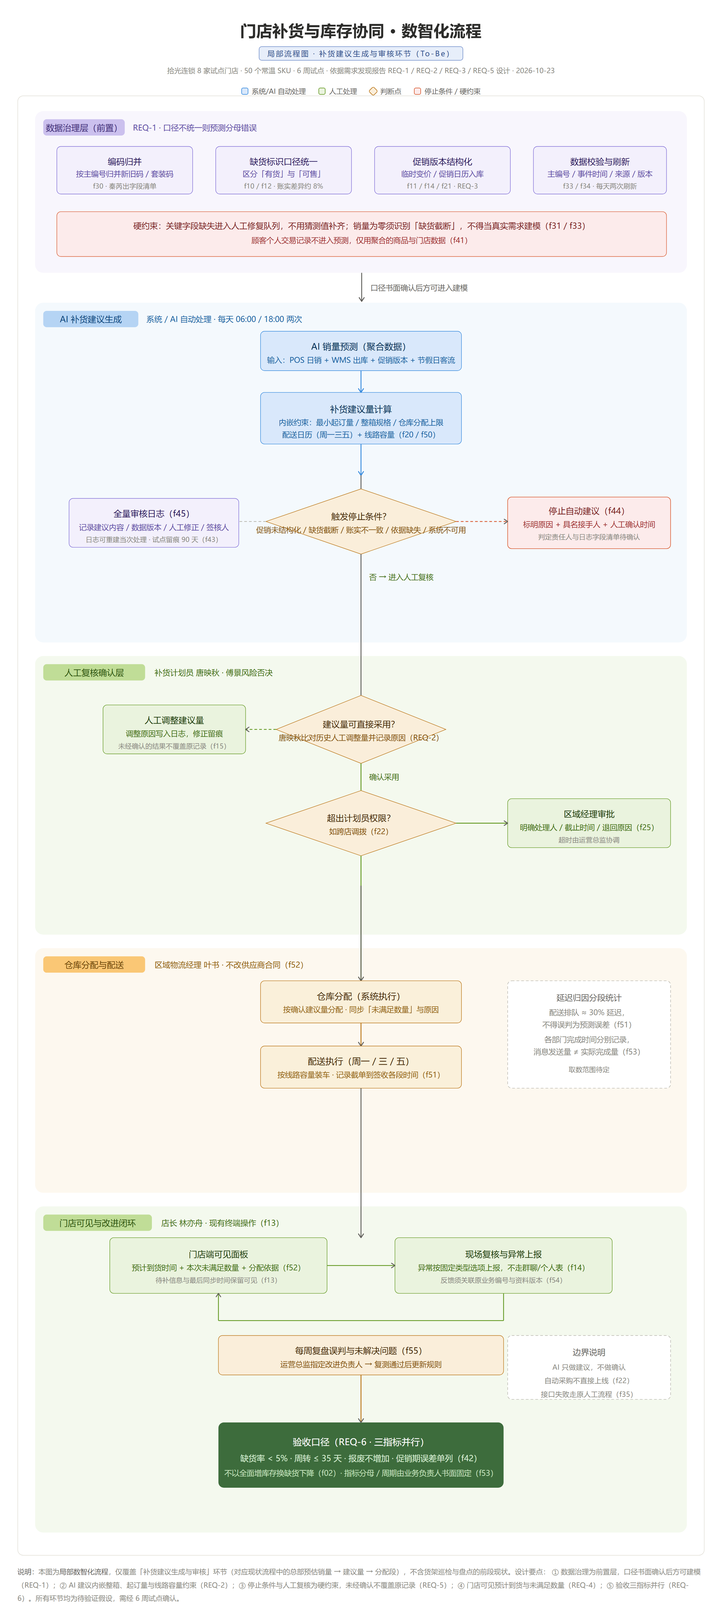
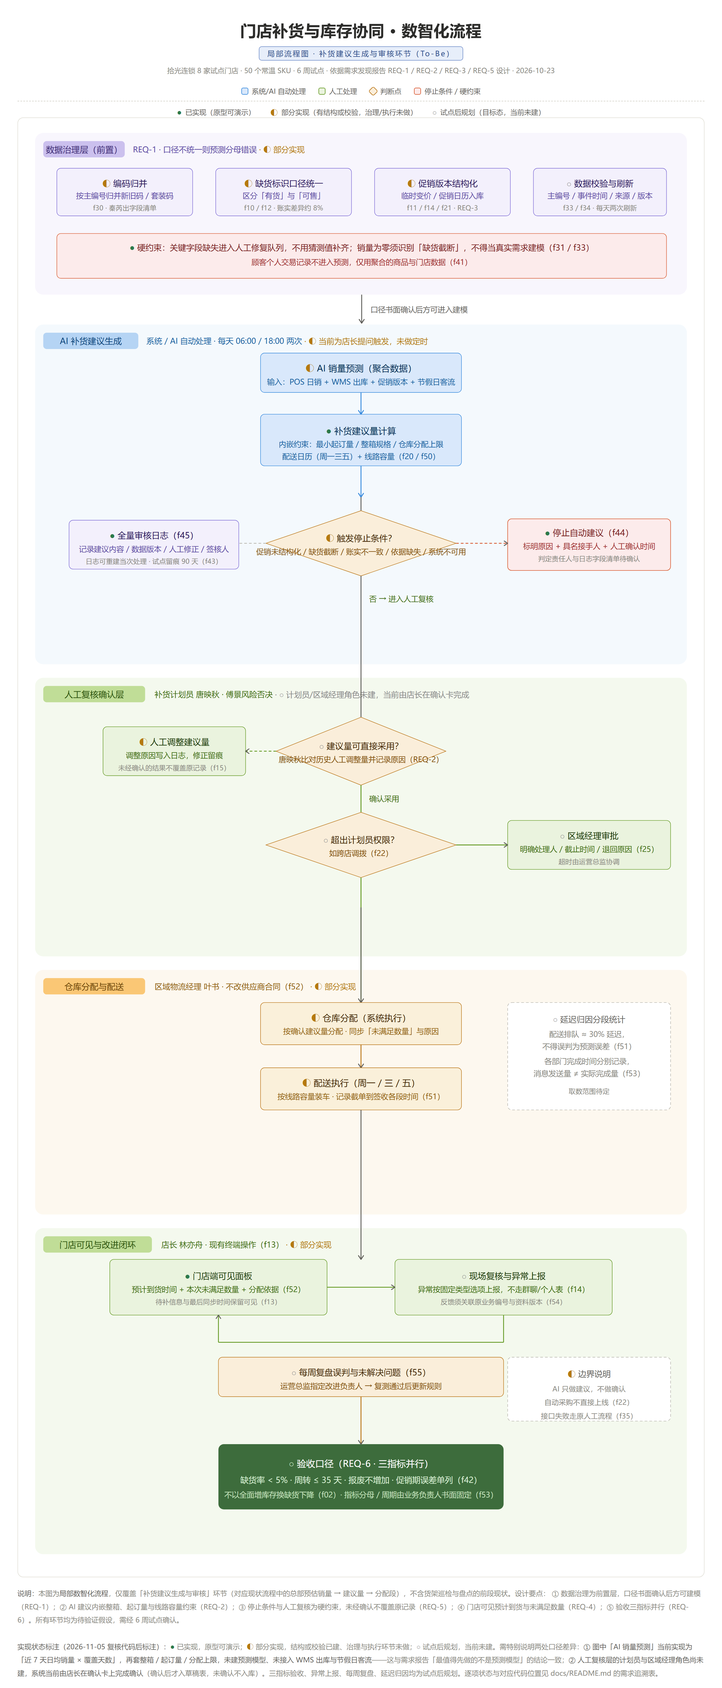
数智化流程图增加实现状态标注：设计图与系统口径对齐
- 对照代码逐项核对图中 17 类要素，为 22 个节点与 5 个分层加状态标注：
  ● 已实现（原型可演示）/ ◐ 部分实现 / ○ 试点后规划
- 两处口径差异在底部说明中写明：
  1) 「AI 销量预测」当前实现为近 7 天日均销量推算（无模型、无 WMS/节假日因子），
     与需求报告「最值得先做的不是预测模型」结论一致
  2) 计划员/区域经理角色未建，确认由店长在确认卡完成
- 顶部图例增加状态行；docs/README.md 索引同步
- PNG 已用 scripts/export_png.py --raw 重新导出，图文一致
- 替换脚本采用内存校验后原子写入，任一替换未命中则整篇不落盘

diff --git a/docs/design/门店补货与库存协同-数智化流程图-局部.html b/docs/design/门店补货与库存协同-数智化流程图-局部.html
@@ -46,6 +46,12 @@
   <span><i class="dot" style="background:#FCEBEB;border-color:#D85A30"></i>停止条件 / 硬约束</span>
 </div>
 
+<div class="legend" style="margin-top:9px;gap:26px;border-top:1px dashed #D3D1C7;padding-top:9px;">
+  <span><b style="color:#2C7A4B;font-size:13px;">●</b> 已实现（原型可演示）</span>
+  <span><b style="color:#B5790F;font-size:13px;">◐</b> 部分实现（有结构或校验，治理/执行未做）</span>
+  <span><b style="color:#8A8A8A;font-size:13px;">○</b> 试点后规划（目标态，当前未建）</span>
+</div>
+
 <div class="canvas">
 <svg viewBox="0 0 1000 2130" role="img" xmlns="http://www.w3.org/2000/svg">
 <title>门店补货与库存协同数智化流程图（局部）</title>
@@ -65,30 +71,30 @@
 <rect x="20" y="10" width="960" height="238" rx="12" fill="#EFEBFA" opacity="0.45"/>
 <rect x="32" y="22" width="120" height="24" rx="5" fill="#CBC0EE"/>
 <text x="92" y="34" font-size="12.5" font-weight="500" fill="#3A2875" text-anchor="middle" dominant-baseline="central">数据治理层（前置）</text>
-<text x="164" y="34" font-size="11.5" fill="#5A48A6" dominant-baseline="central"> REQ-1 · 口径不统一则预测分母错误</text>
+<text x="164" y="34" font-size="11.5" fill="#5A48A6" dominant-baseline="central"> REQ-1 · 口径不统一则预测分母错误<tspan fill="#B5790F"> · ◐ 部分实现</tspan></text>
 
 <rect x="52" y="62" width="200" height="70" rx="6" fill="#F3F0FC" stroke="#7F6DD6" stroke-width="0.7"/>
-<text x="152" y="84" font-size="12.5" fill="#241457" text-anchor="middle" dominant-baseline="central">编码归并</text>
+<text x="152" y="84" font-size="12.5" fill="#241457" text-anchor="middle" dominant-baseline="central"><tspan fill="#B5790F">◐ </tspan>编码归并</text>
 <text x="152" y="102" font-size="11" fill="#5A48A6" text-anchor="middle" dominant-baseline="central">按主编号归并新旧码 / 套装码</text>
 <text x="152" y="120" font-size="10" fill="#888780" text-anchor="middle" dominant-baseline="central">f30 · 秦芮出字段清单</text>
 
 <rect x="286" y="62" width="200" height="70" rx="6" fill="#F3F0FC" stroke="#7F6DD6" stroke-width="0.7"/>
-<text x="386" y="84" font-size="12.5" fill="#241457" text-anchor="middle" dominant-baseline="central">缺货标识口径统一</text>
+<text x="386" y="84" font-size="12.5" fill="#241457" text-anchor="middle" dominant-baseline="central"><tspan fill="#B5790F">◐ </tspan>缺货标识口径统一</text>
 <text x="386" y="102" font-size="11" fill="#5A48A6" text-anchor="middle" dominant-baseline="central">区分「有货」与「可售」</text>
 <text x="386" y="120" font-size="10" fill="#888780" text-anchor="middle" dominant-baseline="central">f10 / f12 · 账实差异约 8%</text>
 
 <rect x="520" y="62" width="200" height="70" rx="6" fill="#F3F0FC" stroke="#7F6DD6" stroke-width="0.7"/>
-<text x="620" y="84" font-size="12.5" fill="#241457" text-anchor="middle" dominant-baseline="central">促销版本结构化</text>
+<text x="620" y="84" font-size="12.5" fill="#241457" text-anchor="middle" dominant-baseline="central"><tspan fill="#B5790F">◐ </tspan>促销版本结构化</text>
 <text x="620" y="102" font-size="11" fill="#5A48A6" text-anchor="middle" dominant-baseline="central">临时变价 / 促销日历入库</text>
 <text x="620" y="120" font-size="10" fill="#888780" text-anchor="middle" dominant-baseline="central">f11 / f14 / f21 · REQ-3</text>
 
 <rect x="754" y="62" width="196" height="70" rx="6" fill="#F3F0FC" stroke="#7F6DD6" stroke-width="0.7"/>
-<text x="852" y="84" font-size="12.5" fill="#241457" text-anchor="middle" dominant-baseline="central">数据校验与刷新</text>
+<text x="852" y="84" font-size="12.5" fill="#241457" text-anchor="middle" dominant-baseline="central"><tspan fill="#8A8A8A">○ </tspan>数据校验与刷新</text>
 <text x="852" y="102" font-size="11" fill="#5A48A6" text-anchor="middle" dominant-baseline="central">主编号 / 事件时间 / 来源 / 版本</text>
 <text x="852" y="120" font-size="10" fill="#888780" text-anchor="middle" dominant-baseline="central">f33 / f34 · 每天两次刷新</text>
 
 <rect x="52" y="158" width="898" height="66" rx="6" fill="#FCEBEB" stroke="#D85A30" stroke-width="0.7"/>
-<text x="501" y="178" font-size="12" font-weight="500" fill="#791F1F" text-anchor="middle" dominant-baseline="central">硬约束：关键字段缺失进入人工修复队列，不用猜测值补齐；销量为零须识别「缺货截断」，不得当真实需求建模（f31 / f33）</text>
+<text x="501" y="178" font-size="12" font-weight="500" fill="#791F1F" text-anchor="middle" dominant-baseline="central"><tspan fill="#2C7A4B">● </tspan>硬约束：关键字段缺失进入人工修复队列，不用猜测值补齐；销量为零须识别「缺货截断」，不得当真实需求建模（f31 / f33）</text>
 <text x="501" y="200" font-size="11" fill="#A32D2D" text-anchor="middle" dominant-baseline="central">顾客个人交易记录不进入预测，仅用聚合的商品与门店数据（f41）</text>
 
 <path d="M501 248 L501 290" stroke="#5F5E5A" stroke-width="1.3" marker-end="url(#a)"/>
@@ -98,14 +104,14 @@
 <rect x="20" y="292" width="960" height="500" rx="12" fill="#E6F1FB" opacity="0.45"/>
 <rect x="32" y="304" width="140" height="24" rx="5" fill="#B5D4F4"/>
 <text x="102" y="316" font-size="12.5" font-weight="500" fill="#0C447C" text-anchor="middle" dominant-baseline="central">AI 补货建议生成</text>
-<text x="184" y="316" font-size="11.5" fill="#185FA5" dominant-baseline="central"> 系统 / AI 自动处理 · 每天 06:00 / 18:00 两次</text>
+<text x="184" y="316" font-size="11.5" fill="#185FA5" dominant-baseline="central"> 系统 / AI 自动处理 · 每天 06:00 / 18:00 两次<tspan fill="#B5790F"> · ◐ 当前为店长提问触发，未做定时</tspan></text>
 
 <rect x="352" y="334" width="296" height="58" rx="6" fill="#D9E8FB" stroke="#378ADD" stroke-width="0.7"/>
-<text x="500" y="356" font-size="13" fill="#042C53" text-anchor="middle" dominant-baseline="central">AI 销量预测（聚合数据）</text>
+<text x="500" y="356" font-size="13" fill="#042C53" text-anchor="middle" dominant-baseline="central"><tspan fill="#B5790F">◐ </tspan>AI 销量预测（聚合数据）</text>
 <text x="500" y="376" font-size="11" fill="#185FA5" text-anchor="middle" dominant-baseline="central">输入：POS 日销 + WMS 出库 + 促销版本 + 节假日客流</text>
 
 <rect x="352" y="424" width="296" height="76" rx="6" fill="#D9E8FB" stroke="#378ADD" stroke-width="0.7"/>
-<text x="500" y="448" font-size="13" fill="#042C53" text-anchor="middle" dominant-baseline="central">补货建议量计算</text>
+<text x="500" y="448" font-size="13" fill="#042C53" text-anchor="middle" dominant-baseline="central"><tspan fill="#2C7A4B">● </tspan>补货建议量计算</text>
 <text x="500" y="468" font-size="11" fill="#185FA5" text-anchor="middle" dominant-baseline="central">内嵌约束：最小起订量 / 整箱规格 / 仓库分配上限</text>
 <text x="500" y="486" font-size="11" fill="#185FA5" text-anchor="middle" dominant-baseline="central">配送日历（周一三五）+ 线路容量（f20 / f50）</text>
 
@@ -115,18 +121,18 @@
 <path d="M500 546 L500 566" stroke="#5F5E5A" stroke-width="1.3"/>
 
 <path d="M500 566 L640 614 L500 662 L360 614 Z" fill="#FAEEDA" stroke="#BA7517" stroke-width="0.7"/>
-<text x="500" y="606" font-size="12.5" font-weight="500" fill="#412402" text-anchor="middle" dominant-baseline="central">触发停止条件？</text>
+<text x="500" y="606" font-size="12.5" font-weight="500" fill="#412402" text-anchor="middle" dominant-baseline="central"><tspan fill="#B5790F">◐ </tspan>触发停止条件？</text>
 <text x="500" y="626" font-size="11" fill="#854F0B" text-anchor="middle" dominant-baseline="central">促销未结构化 / 缺货截断 / 账实不一致 / 依据缺失 / 系统不可用</text>
 
 <rect x="716" y="578" width="240" height="76" rx="6" fill="#FCEBEB" stroke="#D85A30" stroke-width="0.8"/>
-<text x="836" y="598" font-size="12.5" font-weight="500" fill="#791F1F" text-anchor="middle" dominant-baseline="central">停止自动建议（f44）</text>
+<text x="836" y="598" font-size="12.5" font-weight="500" fill="#791F1F" text-anchor="middle" dominant-baseline="central"><tspan fill="#2C7A4B">● </tspan>停止自动建议（f44）</text>
 <text x="836" y="618" font-size="11" fill="#A32D2D" text-anchor="middle" dominant-baseline="central">标明原因 + 具名接手人 + 人工确认时间</text>
 <text x="836" y="636" font-size="10" fill="#888780" text-anchor="middle" dominant-baseline="central">判定责任人与日志字段清单待确认</text>
 
 <path d="M640 614 L716 614" stroke="#D85A30" stroke-width="1.2" stroke-dasharray="4 3" marker-end="url(#a)"/>
 
 <rect x="70" y="580" width="250" height="72" rx="6" fill="#F3F0FC" stroke="#7F6DD6" stroke-width="0.7"/>
-<text x="195" y="602" font-size="12.5" fill="#241457" text-anchor="middle" dominant-baseline="central">全量审核日志（f45）</text>
+<text x="195" y="602" font-size="12.5" fill="#241457" text-anchor="middle" dominant-baseline="central"><tspan fill="#2C7A4B">● </tspan>全量审核日志（f45）</text>
 <text x="195" y="622" font-size="11" fill="#5A48A6" text-anchor="middle" dominant-baseline="central">记录建议内容 / 数据版本 / 人工修正 / 签核人</text>
 <text x="195" y="640" font-size="10" fill="#888780" text-anchor="middle" dominant-baseline="central">日志可重建当次处理 · 试点留痕 90 天（f43）</text>
 
@@ -136,17 +142,17 @@
 <rect x="20" y="812" width="960" height="410" rx="12" fill="#EAF3DE" opacity="0.5"/>
 <rect x="32" y="824" width="150" height="24" rx="5" fill="#C0DD97"/>
 <text x="107" y="836" font-size="12.5" font-weight="500" fill="#27500A" text-anchor="middle" dominant-baseline="central">人工复核确认层</text>
-<text x="196" y="836" font-size="11.5" fill="#3B6D11" dominant-baseline="central"> 补货计划员 唐映秋 · 傅景风险否决</text>
+<text x="196" y="836" font-size="11.5" fill="#3B6D11" dominant-baseline="central"> 补货计划员 唐映秋 · 傅景风险否决<tspan fill="#8A8A8A"> · ○ 计划员/区域经理角色未建，当前由店长在确认卡完成</tspan></text>
 
 <path d="M500 662 L500 870" stroke="#5F5E5A" stroke-width="1.3"/>
 <text x="512" y="700" font-size="11" fill="#3B6D11">否 → 进入人工复核</text>
 
 <path d="M500 870 L625 920 L500 970 L375 920 Z" fill="#FAEEDA" stroke="#BA7517" stroke-width="0.7"/>
-<text x="500" y="912" font-size="12.5" font-weight="500" fill="#412402" text-anchor="middle" dominant-baseline="central">建议量可直接采用？</text>
+<text x="500" y="912" font-size="12.5" font-weight="500" fill="#412402" text-anchor="middle" dominant-baseline="central"><tspan fill="#8A8A8A">○ </tspan>建议量可直接采用？</text>
 <text x="500" y="932" font-size="11" fill="#854F0B" text-anchor="middle" dominant-baseline="central">唐映秋比对历史人工调整量并记录原因（REQ-2）</text>
 
 <rect x="120" y="884" width="210" height="72" rx="6" fill="#EAF3DE" stroke="#639922" stroke-width="0.7"/>
-<text x="225" y="906" font-size="12.5" fill="#173404" text-anchor="middle" dominant-baseline="central">人工调整建议量</text>
+<text x="225" y="906" font-size="12.5" fill="#173404" text-anchor="middle" dominant-baseline="central"><tspan fill="#B5790F">◐ </tspan>人工调整建议量</text>
 <text x="225" y="926" font-size="11" fill="#3B6D11" text-anchor="middle" dominant-baseline="central">调整原因写入日志，修正留痕</text>
 <text x="225" y="944" font-size="10" fill="#888780" text-anchor="middle" dominant-baseline="central">未经确认的结果不覆盖原记录（f15）</text>
 
@@ -155,11 +161,11 @@
 <text x="512" y="994" font-size="11" fill="#3B6D11">确认采用</text>
 
 <path d="M500 1010 L640 1058 L500 1106 L360 1058 Z" fill="#FAEEDA" stroke="#BA7517" stroke-width="0.7"/>
-<text x="500" y="1050" font-size="12.5" font-weight="500" fill="#412402" text-anchor="middle" dominant-baseline="central">超出计划员权限？</text>
+<text x="500" y="1050" font-size="12.5" font-weight="500" fill="#412402" text-anchor="middle" dominant-baseline="central"><tspan fill="#8A8A8A">○ </tspan>超出计划员权限？</text>
 <text x="500" y="1070" font-size="11" fill="#854F0B" text-anchor="middle" dominant-baseline="central">如跨店调拨（f22）</text>
 
 <rect x="716" y="1022" width="240" height="72" rx="6" fill="#EAF3DE" stroke="#639922" stroke-width="0.7"/>
-<text x="836" y="1044" font-size="12.5" fill="#173404" text-anchor="middle" dominant-baseline="central">区域经理审批</text>
+<text x="836" y="1044" font-size="12.5" fill="#173404" text-anchor="middle" dominant-baseline="central"><tspan fill="#8A8A8A">○ </tspan>区域经理审批</text>
 <text x="836" y="1064" font-size="11" fill="#3B6D11" text-anchor="middle" dominant-baseline="central">明确处理人 / 截止时间 / 退回原因（f25）</text>
 <text x="836" y="1082" font-size="10" fill="#888780" text-anchor="middle" dominant-baseline="central">超时由运营总监协调</text>
 
@@ -169,23 +175,23 @@
 <rect x="20" y="1242" width="960" height="360" rx="12" fill="#FAEEDA" opacity="0.42"/>
 <rect x="32" y="1254" width="150" height="24" rx="5" fill="#FAC775"/>
 <text x="107" y="1266" font-size="12.5" font-weight="500" fill="#6B4205" text-anchor="middle" dominant-baseline="central">仓库分配与配送</text>
-<text x="196" y="1266" font-size="11.5" fill="#93610E" dominant-baseline="central"> 区域物流经理 叶书 · 不改供应商合同（f52）</text>
+<text x="196" y="1266" font-size="11.5" fill="#93610E" dominant-baseline="central"> 区域物流经理 叶书 · 不改供应商合同（f52）<tspan fill="#B5790F"> · ◐ 部分实现</tspan></text>
 
 <path d="M500 1106 L500 1150 M500 1150 L500 1290" stroke="#639922" stroke-width="1.3"/>
 <path d="M500 1150 L500 1290" stroke="#5F5E5A" stroke-width="1.3" marker-end="url(#a)"/>
 
 <rect x="352" y="1290" width="296" height="62" rx="6" fill="#FAF0DA" stroke="#BA7517" stroke-width="0.7"/>
-<text x="500" y="1312" font-size="13" fill="#412402" text-anchor="middle" dominant-baseline="central">仓库分配（系统执行）</text>
+<text x="500" y="1312" font-size="13" fill="#412402" text-anchor="middle" dominant-baseline="central"><tspan fill="#B5790F">◐ </tspan>仓库分配（系统执行）</text>
 <text x="500" y="1332" font-size="11" fill="#93610E" text-anchor="middle" dominant-baseline="central">按确认建议量分配 · 同步「未满足数量」与原因</text>
 
 <path d="M500 1352 L500 1386" stroke="#BA7517" stroke-width="1.3" marker-end="url(#a)"/>
 
 <rect x="352" y="1386" width="296" height="62" rx="6" fill="#FAF0DA" stroke="#BA7517" stroke-width="0.7"/>
-<text x="500" y="1408" font-size="13" fill="#412402" text-anchor="middle" dominant-baseline="central">配送执行（周一 / 三 / 五）</text>
+<text x="500" y="1408" font-size="13" fill="#412402" text-anchor="middle" dominant-baseline="central"><tspan fill="#B5790F">◐ </tspan>配送执行（周一 / 三 / 五）</text>
 <text x="500" y="1428" font-size="11" fill="#93610E" text-anchor="middle" dominant-baseline="central">按线路容量装车 · 记录截单到签收各段时间（f51）</text>
 
 <rect x="716" y="1290" width="240" height="158" rx="6" fill="#fff" stroke="#B4B2A9" stroke-width="0.7" stroke-dasharray="4 3"/>
-<text x="836" y="1314" font-size="12" font-weight="500" fill="#5F5E5A" text-anchor="middle" dominant-baseline="central">延迟归因分段统计</text>
+<text x="836" y="1314" font-size="12" font-weight="500" fill="#5F5E5A" text-anchor="middle" dominant-baseline="central"><tspan fill="#8A8A8A">○ </tspan>延迟归因分段统计</text>
 <text x="836" y="1336" font-size="11" fill="#888780" text-anchor="middle" dominant-baseline="central">配送排队 ≈ 30% 延迟，</text>
 <text x="836" y="1354" font-size="11" fill="#888780" text-anchor="middle" dominant-baseline="central">不得误判为预测误差（f51）</text>
 <text x="836" y="1376" font-size="11" fill="#888780" text-anchor="middle" dominant-baseline="central">各部门完成时间分别记录，</text>
@@ -196,17 +202,17 @@
 <rect x="20" y="1622" width="960" height="480" rx="12" fill="#EAF3DE" opacity="0.5"/>
 <rect x="32" y="1634" width="160" height="24" rx="5" fill="#C0DD97"/>
 <text x="112" y="1646" font-size="12.5" font-weight="500" fill="#27500A" text-anchor="middle" dominant-baseline="central">门店可见与改进闭环</text>
-<text x="206" y="1646" font-size="11.5" fill="#3B6D11" dominant-baseline="central"> 店长 林亦舟 · 现有终端操作（f13）</text>
+<text x="206" y="1646" font-size="11.5" fill="#3B6D11" dominant-baseline="central"> 店长 林亦舟 · 现有终端操作（f13）<tspan fill="#B5790F"> · ◐ 部分实现</tspan></text>
 
 <path d="M500 1448 L500 1490 M500 1490 L500 1668" stroke="#5F5E5A" stroke-width="1.3" marker-end="url(#a)"/>
 
 <rect x="130" y="1668" width="320" height="82" rx="6" fill="#EAF3DE" stroke="#639922" stroke-width="0.7"/>
-<text x="290" y="1692" font-size="12.5" fill="#173404" text-anchor="middle" dominant-baseline="central">门店端可见面板</text>
+<text x="290" y="1692" font-size="12.5" fill="#173404" text-anchor="middle" dominant-baseline="central"><tspan fill="#2C7A4B">● </tspan>门店端可见面板</text>
 <text x="290" y="1712" font-size="11" fill="#3B6D11" text-anchor="middle" dominant-baseline="central">预计到货时间 + 本次未满足数量 + 分配依据（f52）</text>
 <text x="290" y="1730" font-size="10" fill="#888780" text-anchor="middle" dominant-baseline="central">待补信息与最后同步时间保留可见（f13）</text>
 
 <rect x="550" y="1668" width="320" height="82" rx="6" fill="#EAF3DE" stroke="#639922" stroke-width="0.7"/>
-<text x="710" y="1692" font-size="12.5" fill="#173404" text-anchor="middle" dominant-baseline="central">现场复核与异常上报</text>
+<text x="710" y="1692" font-size="12.5" fill="#173404" text-anchor="middle" dominant-baseline="central"><tspan fill="#8A8A8A">○ </tspan>现场复核与异常上报</text>
 <text x="710" y="1712" font-size="11" fill="#3B6D11" text-anchor="middle" dominant-baseline="central">异常按固定类型选项上报，不走群聊/个人表（f14）</text>
 <text x="710" y="1730" font-size="10" fill="#888780" text-anchor="middle" dominant-baseline="central">反馈须关联原业务编号与资料版本（f54）</text>
 
@@ -214,11 +220,11 @@
 <path d="M710 1750 L710 1790 M710 1790 L290 1790 M290 1790 L290 1750" stroke="#639922" stroke-width="1.2" marker-end="url(#a)"/>
 
 <rect x="290" y="1812" width="420" height="58" rx="6" fill="#FAEEDA" stroke="#BA7517" stroke-width="0.7"/>
-<text x="500" y="1834" font-size="12.5" fill="#412402" text-anchor="middle" dominant-baseline="central">每周复盘误判与未解决问题（f55）</text>
+<text x="500" y="1834" font-size="12.5" fill="#412402" text-anchor="middle" dominant-baseline="central"><tspan fill="#8A8A8A">○ </tspan>每周复盘误判与未解决问题（f55）</text>
 <text x="500" y="1854" font-size="11" fill="#854F0B" text-anchor="middle" dominant-baseline="central">运营总监指定改进负责人 → 复测通过后更新规则</text>
 
 <rect x="290" y="1940" width="420" height="96" rx="8" fill="#2C5F2D" opacity="0.92"/>
-<text x="500" y="1968" font-size="13.5" font-weight="500" fill="#FFFFFF" text-anchor="middle" dominant-baseline="central">验收口径（REQ-6 · 三指标并行）</text>
+<text x="500" y="1968" font-size="13.5" font-weight="500" fill="#FFFFFF" text-anchor="middle" dominant-baseline="central"><tspan fill="#D8EED4">○ </tspan>验收口径（REQ-6 · 三指标并行）</text>
 <text x="500" y="1992" font-size="12" fill="#D8EED4" text-anchor="middle" dominant-baseline="central">缺货率 &lt; 5% · 周转 ≤ 35 天 · 报废不增加 · 促销期误差单列（f42）</text>
 <text x="500" y="2014" font-size="11" fill="#C4E0BF" text-anchor="middle" dominant-baseline="central">不以全面增库存换缺货下降（f02）· 指标分母 / 周期由业务负责人书面固定（f53）</text>
 
@@ -226,7 +232,7 @@
 
 <!-- 图例：AI/系统 与 人工 的边界说明 -->
 <rect x="716" y="1812" width="240" height="94" rx="6" fill="#fff" stroke="#B4B2A9" stroke-width="0.7" stroke-dasharray="4 3"/>
-<text x="836" y="1836" font-size="12" font-weight="500" fill="#5F5E5A" text-anchor="middle" dominant-baseline="central">边界说明</text>
+<text x="836" y="1836" font-size="12" font-weight="500" fill="#5F5E5A" text-anchor="middle" dominant-baseline="central"><tspan fill="#B5790F">◐ </tspan>边界说明</text>
 <text x="836" y="1858" font-size="10.5" fill="#888780" text-anchor="middle" dominant-baseline="central">AI 只做建议，不做确认</text>
 <text x="836" y="1878" font-size="10.5" fill="#888780" text-anchor="middle" dominant-baseline="central">自动采购不直接上线（f22）</text>
 <text x="836" y="1898" font-size="10.5" fill="#888780" text-anchor="middle" dominant-baseline="central">接口失败走原人工流程（f35）</text>
@@ -237,7 +243,7 @@
 
 <div class="note">
   <b>说明：</b>本图为<b>局部数智化流程</b>，仅覆盖「补货建议生成与审核」环节（对应现状流程中的总部预估销量 → 建议量 → 分配段），不含货架巡检与盘点的前段现状。设计要点：
-  ① 数据治理为前置层，口径书面确认后方可建模（REQ-1）；② AI 建议内嵌整箱、起订量与线路容量约束（REQ-2）；③ 停止条件与人工复核为硬约束，未经确认不覆盖原记录（REQ-5）；④ 门店可见预计到货与未满足数量（REQ-4）；⑤ 验收三指标并行（REQ-6）。所有环节均为待验证假设，需经 6 周试点确认。
+  ① 数据治理为前置层，口径书面确认后方可建模（REQ-1）；② AI 建议内嵌整箱、起订量与线路容量约束（REQ-2）；③ 停止条件与人工复核为硬约束，未经确认不覆盖原记录（REQ-5）；④ 门店可见预计到货与未满足数量（REQ-4）；⑤ 验收三指标并行（REQ-6）。所有环节均为待验证假设，需经 6 周试点确认。<br><br><b>实现状态标注（2026-11-05 复核代码后标注）：</b><b style="color:#2C7A4B;">●</b> 已实现，原型可演示；<b style="color:#B5790F;">◐</b> 部分实现，结构或校验已建、治理与执行环节未做；<b style="color:#8A8A8A;">○</b> 试点后规划，当前未建。需特别说明两处口径差异：<b>① 图中「AI 销量预测」当前实现为「近 7 天日均销量 × 覆盖天数」，再套整箱 / 起订量 / 分配上限，未建预测模型、未接入 WMS 出库与节假日客流</b>——这与需求报告「最值得先做的不是预测模型」的结论一致；<b>② 人工复核层的计划员与区域经理角色尚未建，系统当前由店长在确认卡上完成确认</b>（确认后才入草稿表，未确认不入库）。三指标验收、异常上报、每周复盘、延迟归因均为试点后规划。逐项状态与对应代码位置见 docs/README.md 的需求追溯表。
 </div>
 
 </body>

diff --git a/docs/README.md b/docs/README.md
@@ -23,7 +23,7 @@
 | `门店补货与库存协同智能体系统-技术架构设计.docx` | 分层架构、工具层与框架层职责边界、数据表设计、上线路径 |
 | `门店补货与库存协同-现状流程图.html` | 现状（人工）补货流程：门店 → 总部 → 区域仓配三角色贯穿，含 4 个菱形人工判断框与是/否分支，每个「否」分支对应一个现状问题（f 编号可回溯需求报告）；矢量 SVG，可缩放可编辑 |
 | `门店补货与库存协同-现状流程图.png` | 上方 HTML 的高清导出版（2880×4614，Chrome 无头渲染），供直接插入 Word / PPT；两者内容一致，修改 HTML 后可用 `scripts/export_png.py` 重新导出 |
-| `门店补货与库存协同-数智化流程图-局部.html` / `.png` | 数智化后的局部流程（补货建议生成与审核 To-Be）：数据治理前置 → AI 建议内嵌约束 → 3 个菱形判断（停止条件 / 是否采用 / 是否越权）→ 人工复核 → 分配配送 → 门店可见闭环；PNG 为 HTML 的高清导出版（2480×5536，用 `scripts/export_png.py --raw` 生成），图文一致 |
+| `门店补货与库存协同-数智化流程图-局部.html` / `.png` | 数智化后的局部流程（补货建议生成与审核 To-Be）：数据治理前置 → AI 建议内嵌约束 → 3 个菱形判断（停止条件 / 是否采用 / 是否越权）→ 人工复核 → 分配配送 → 门店可见闭环。**每个节点带实现状态标注**：● 已实现（原型可演示）/ ◐ 部分实现 / ○ 试点后规划，与代码逐一核对后标注，图与系统口径一致；PNG 为 HTML 的高清导出版（用 `scripts/export_png.py --raw` 生成） |
 
 ## delivery/ 交付与验收
 
